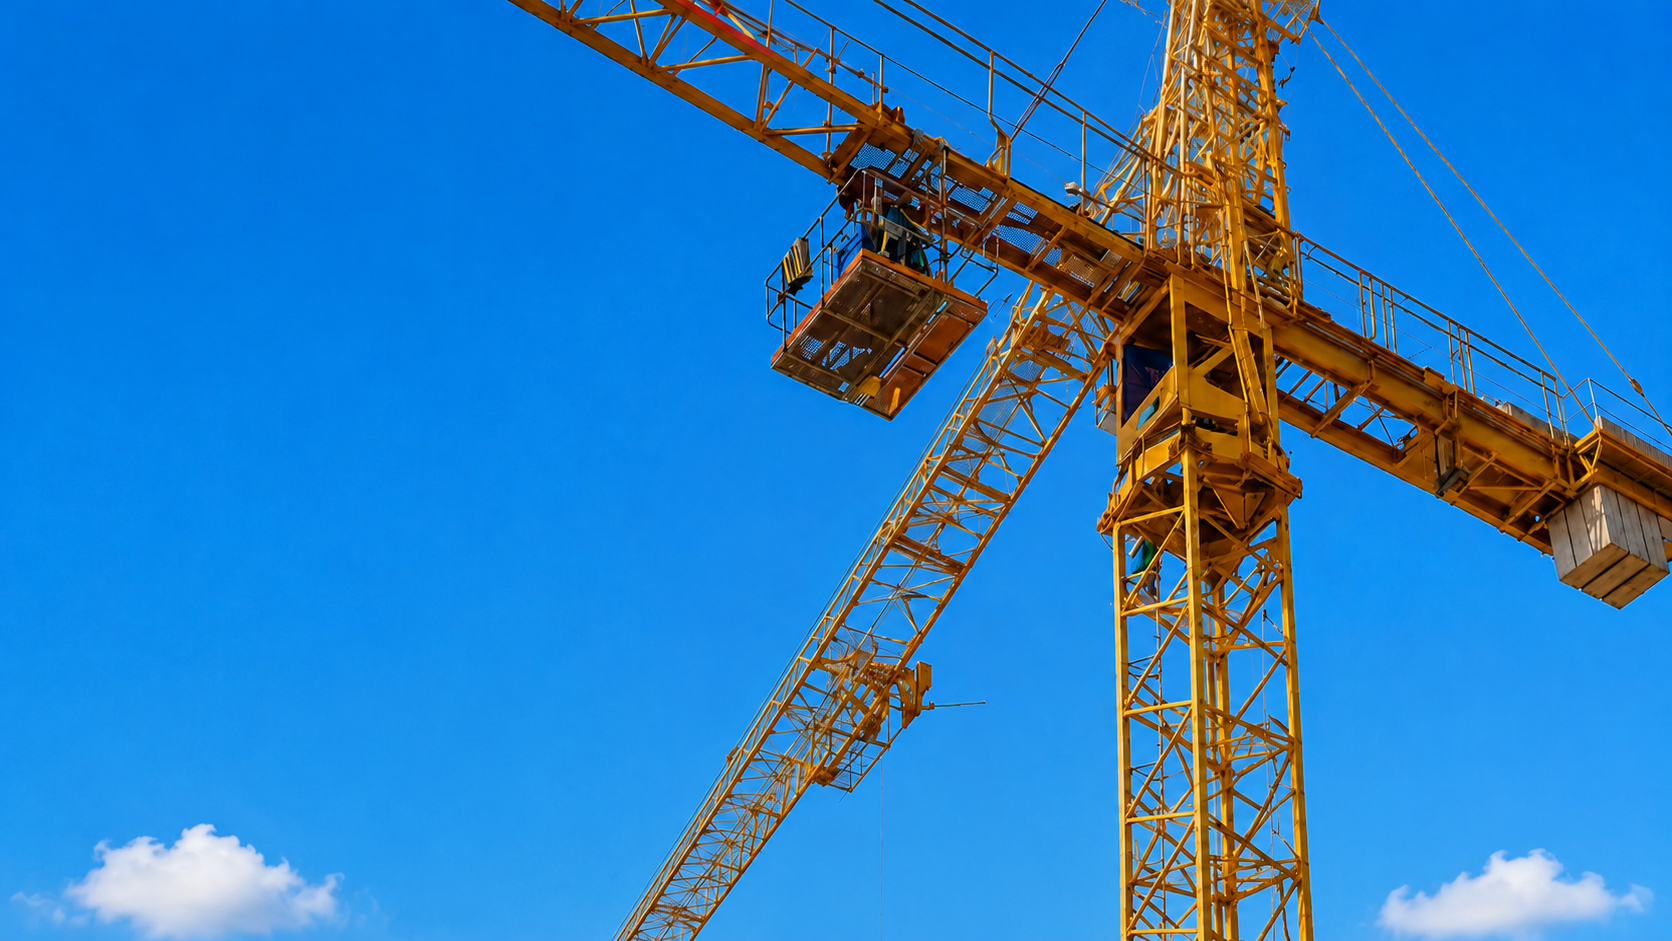
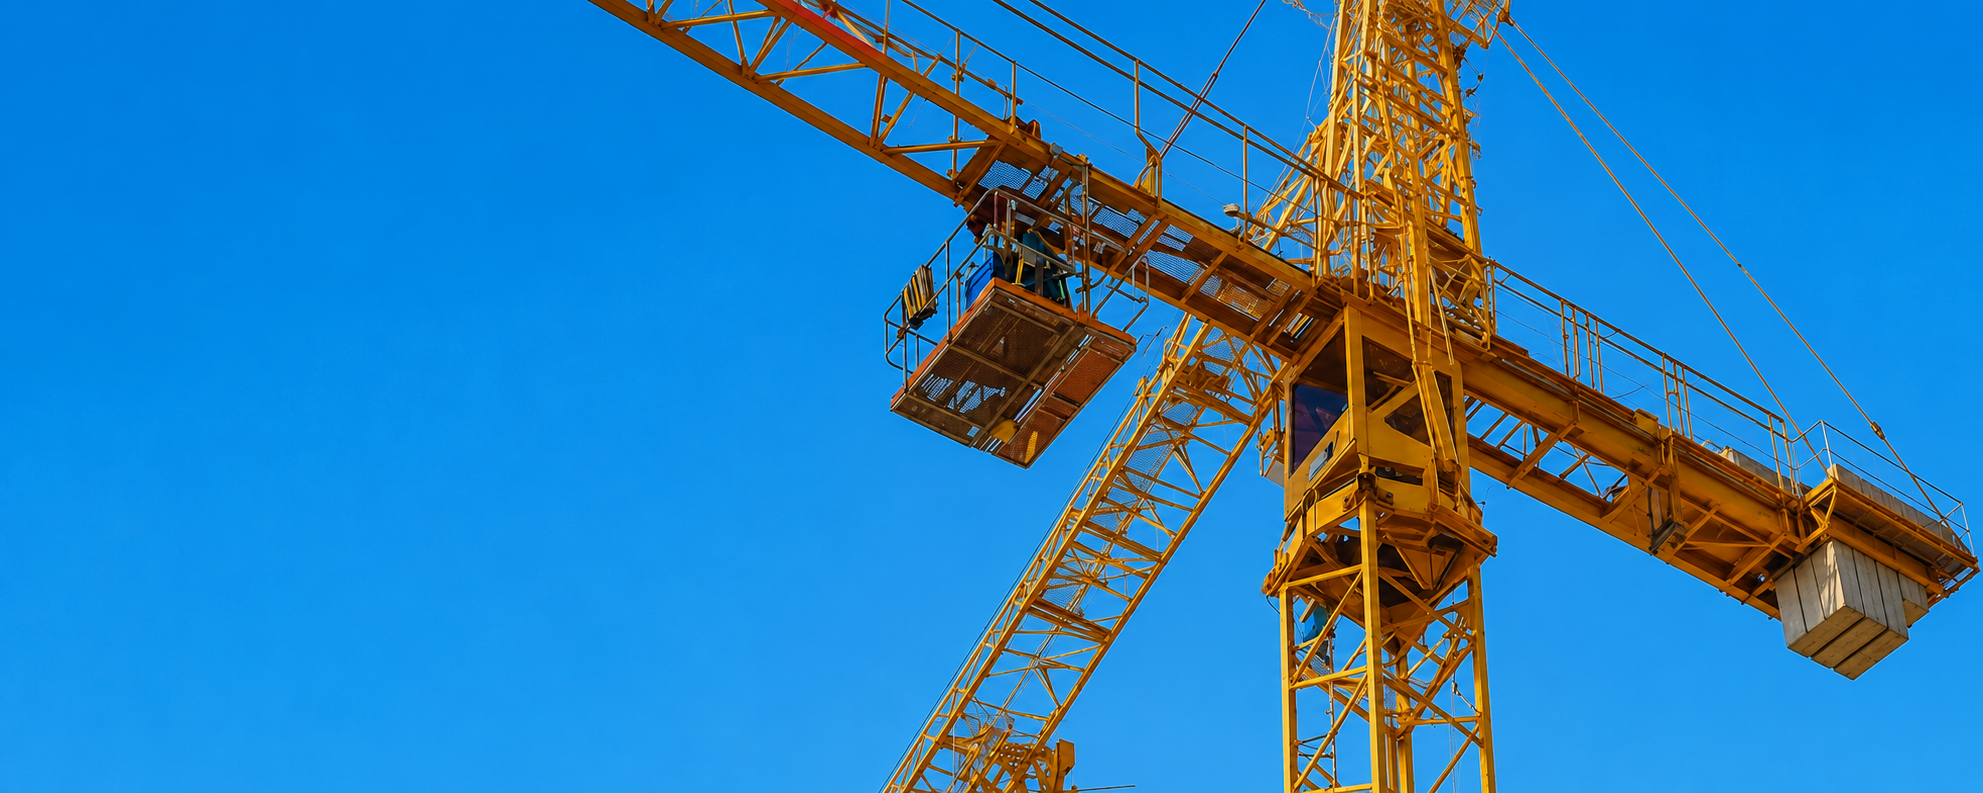
image and mobileview updated

diff --git a/xseed-marketingsite/comingsoon/index-v1.html b/xseed-marketingsite/comingsoon/index-v1.html
@@ -53,7 +53,7 @@
       width: 100%;
       display: flex;
       align-items: stretch;
-      background-image: linear-gradient(119deg, rgb(7 30 58 / 0%) 0%, rgb(7 30 58 / 0%) 30%, rgb(7 30 58 / 0%) 50%, rgba(7, 30, 58, 0) 67%), url(./background-v4.png);
+      background-image: linear-gradient(119deg, rgb(7 30 58 / 0%) 0%, rgb(7 30 58 / 0%) 30%, rgb(7 30 58 / 0%) 50%, rgba(7, 30, 58, 0) 67%), url(./background-v1.png);
       background-size: cover;
       background-position: center;
       background-repeat: no-repeat;
@@ -371,10 +371,10 @@
 
     @media (max-width: 640px) {
       .hero {
-        background-position: 68% center;
+        background-position: 50% center;
         background-image:
           linear-gradient(180deg, rgba(7, 30, 58, 0.62) 0%, rgba(7, 30, 58, 0.28) 48%, rgba(7, 30, 58, 0.1) 100%),
-          url("./background-v4.png");
+          url("./background-v1.png");
       }
 
       .hero__content {

diff --git a/xseed-marketingsite/comingsoon/index-v2.html b/xseed-marketingsite/comingsoon/index-v2.html
@@ -53,7 +53,7 @@
       width: 100%;
       display: flex;
       align-items: stretch;
-      background-image: linear-gradient(119deg, rgb(7 30 58 / 0%) 0%, rgb(7 30 58 / 0%) 30%, rgb(7 30 58 / 0%) 50%, rgba(7, 30, 58, 0) 67%), url(./background-v1.png);
+      background-image: linear-gradient(119deg, rgb(7 30 58 / 0%) 0%, rgb(7 30 58 / 0%) 30%, rgb(7 30 58 / 0%) 50%, rgba(7, 30, 58, 0) 67%), url(./background-v2.png);
       background-size: cover;
       background-position: center;
       background-repeat: no-repeat;
@@ -371,10 +371,10 @@
 
     @media (max-width: 640px) {
       .hero {
-        background-position: 68% center;
+        background-position: 50% center;
         background-image:
           linear-gradient(180deg, rgba(7, 30, 58, 0.62) 0%, rgba(7, 30, 58, 0.28) 48%, rgba(7, 30, 58, 0.1) 100%),
-          url("./background-v1.png");
+          url("./background-v2.png");
       }
 
       .hero__content {
